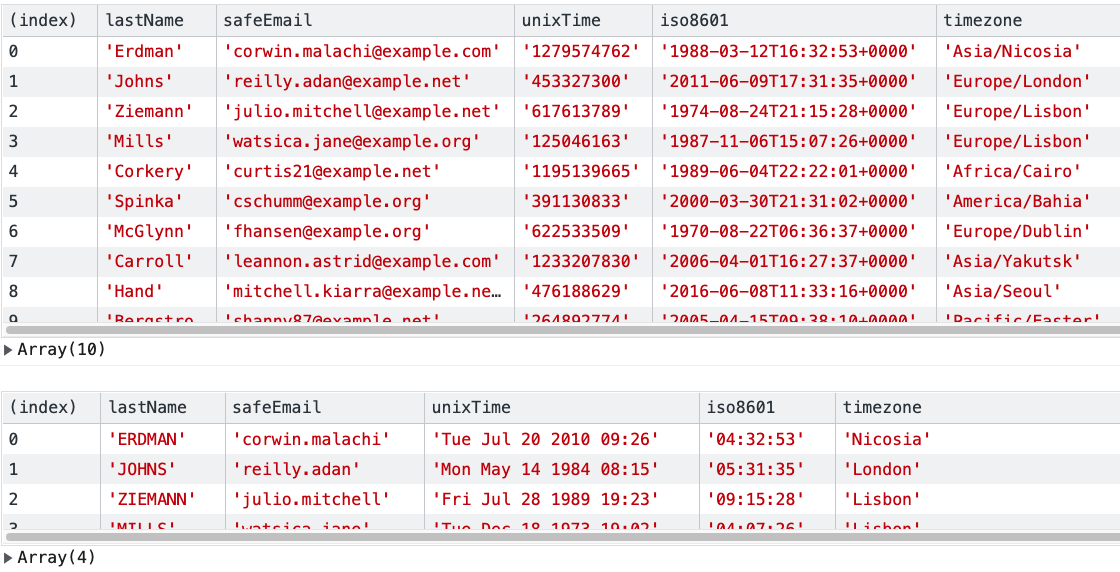
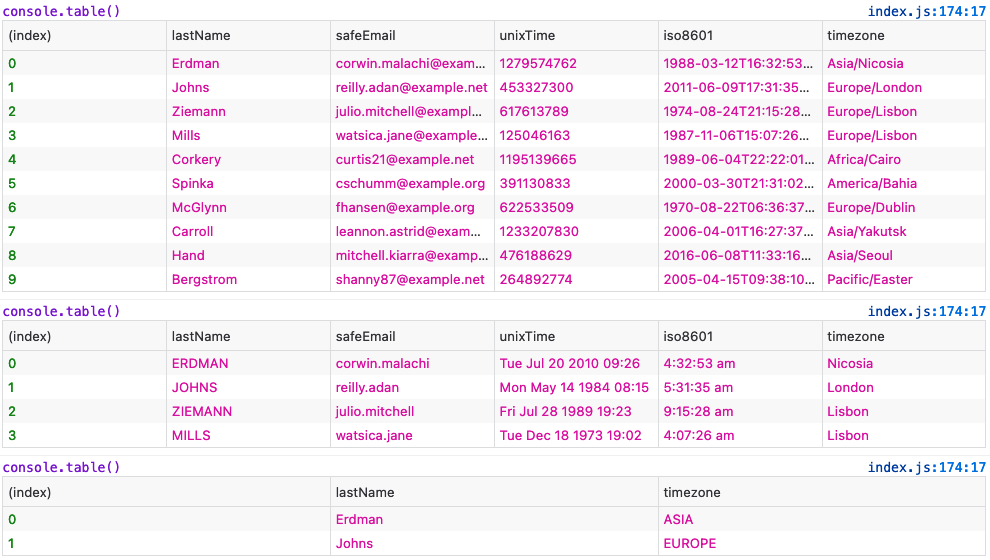
Updated examples and their location

Changed region(s): [[0.0, 0.0, 1.0, 1.0], [0.8788, 0.8196, 1.0, 0.85]]

diff --git a/examples/example.data.js b/examples/example.data.js
@@ -1,0 +1,72 @@
+export default [
+  {
+    lastName: 'Erdman',
+    safeEmail: 'corwin.malachi@example.com',
+    unixTime: '1279574762',
+    iso8601: '1988-03-12T16:32:53+0000',
+    timezone: 'Asia/Nicosia'
+  },
+  {
+    lastName: 'Johns',
+    safeEmail: 'reilly.adan@example.net',
+    unixTime: '453327300',
+    iso8601: '2011-06-09T17:31:35+0000',
+    timezone: 'Europe/London'
+  },
+  {
+    lastName: 'Ziemann',
+    safeEmail: 'julio.mitchell@example.net',
+    unixTime: '617613789',
+    iso8601: '1974-08-24T21:15:28+0000',
+    timezone: 'Europe/Lisbon'
+  },
+  {
+    lastName: 'Mills',
+    safeEmail: 'watsica.jane@example.org',
+    unixTime: '125046163',
+    iso8601: '1987-11-06T15:07:26+0000',
+    timezone: 'Europe/Lisbon'
+  },
+  {
+    lastName: 'Corkery',
+    safeEmail: 'curtis21@example.net',
+    unixTime: '1195139665',
+    iso8601: '1989-06-04T22:22:01+0000',
+    timezone: 'Africa/Cairo'
+  },
+  {
+    lastName: 'Spinka',
+    safeEmail: 'cschumm@example.org',
+    unixTime: '391130833',
+    iso8601: '2000-03-30T21:31:02+0000',
+    timezone: 'America/Bahia'
+  },
+  {
+    lastName: 'McGlynn',
+    safeEmail: 'fhansen@example.org',
+    unixTime: '622533509',
+    iso8601: '1970-08-22T06:36:37+0000',
+    timezone: 'Europe/Dublin'
+  },
+  {
+    lastName: 'Carroll',
+    safeEmail: 'leannon.astrid@example.com',
+    unixTime: '1233207830',
+    iso8601: '2006-04-01T16:27:37+0000',
+    timezone: 'Asia/Yakutsk'
+  },
+  {
+    lastName: 'Hand',
+    safeEmail: 'mitchell.kiarra@example.net',
+    unixTime: '476188629',
+    iso8601: '2016-06-08T11:33:16+0000',
+    timezone: 'Asia/Seoul'
+  },
+  {
+    lastName: 'Bergstrom',
+    safeEmail: 'shanny87@example.net',
+    unixTime: '264892774',
+    iso8601: '2005-04-15T09:38:10+0000',
+    timezone: 'Pacific/Easter'
+  }
+]

diff --git a/examples/example.js b/examples/example.js
@@ -1,0 +1,50 @@
+'use-strict'
+
+import Logger, { Styles, Processors } from '@hveluwenkamp/logjs'
+import ExampleData from './example.data.js'
+// import ExampleData from './node_modules/@hveluwenkamp/logjs/example.data.js'
+
+const example1 = Logger()
+const example2 = Logger('Function Label', { styles: Styles, processors: Processors })
+
+example1.clear().whoami() // default name is 'logjs'
+
+// simple test with no label
+example2.p('Simple test message using defaults')
+example2.type('log').p('Simple test message using defaults with console method "log"')
+example2.type('warn').p('Simple test message using defaults with console method "warn"')
+example2.type('error').p('Simple test message using defaults with console method "error"')
+
+// test all styles for all methods types
+const styles = Object.keys(Styles)
+const methods = ['log', 'warn', 'error'] // useful console methods
+styles.forEach(style => {
+  methods.forEach(type => {
+    example2.p(`Some text with style '${style}' and console method '${type}'`, { style, type })
+  })
+})
+
+example2.set(ExampleData).out() // will be using dir method by default
+example2.set(ExampleData).out('table')
+
+example2.set(ExampleData)
+  .limit(4)
+  .process({
+    lastName: 'upper',
+    unixTime: 'ux,datetime',
+    safeEmail: 'left,@',
+    timezone: 'right,/',
+    iso8601: 'date,toLocaleTimeString'
+  })
+  .out('table')
+
+example2.set(ExampleData)
+  .limit(2)
+  .include(['lastName', 'timezone'])
+  .process({
+    timezone: 'left,/'
+  })
+  .process({
+    timezone: 'upper'
+  })
+  .out('table')

diff --git a/README.md b/README.md
@@ -9,14 +9,15 @@ Enhanced logger for javascript. Able to colourise console outputs. Data arrays c
 ````javascript
 import Logger from '@hveluwenkamp/logjs'
 
-const test1 = Logger()
+const example1 = Logger()
 
-test1.p('Simple test message using defaults')
-test1.type('warn').p('Simple test message using defaults with type "info"')
-test1.type('error').p('Simple test message using defaults with type "error"')
+example1.p('Simple test message using defaults')
+example1.type('log').p('Simple test message using defaults with console method "log"')
+example1.type('warn').p('Simple test message using defaults with console method "warn"')
+example1.type('error').p('Simple test message using defaults with console method "error"')
 ````
 
-<img src="media/example.image.1.png" width="500"/>
+<img src="media/example.image.a.png" width="550"/>
 
 ### Advanced usage
 #### Styled console logs
@@ -24,17 +25,18 @@ Stepping through all the styles in Style object, with the console methods of log
 ````javascript
 import Logger, { Styles, Processors } from '@hveluwenkamp/logjs'
 
-const test2 = Logger('Function Label', { styles: Styles, processors: Processors })
+const example2 = Logger('Function Label', { styles: Styles, processors: Processors })
 
 const styles = Object.keys(Styles)
 const types = ['log', 'warn', 'error'] // useful console methods
 styles.forEach(style => { // iterate over all styles in Style Object
-    types.forEach(type => {
-        test2.p(`Some text with style '${style}' and type '${type}'`, { style, type })
+    types.forEach(method => {
+        example2.p(`Some text with style '${style}' and console method '${type}'`, { style, type })
     })
 })
 ````
-<img src="media/example.image.2.png" width="500"/>
+<img src="media/example.image.b.png" width="630"/>
+
 
 #### Array of data objects
 Array data can be output using the console methods of log, dir, and table. 
@@ -46,11 +48,11 @@ The processing functions included are upper and lower case (**'upper'** and **'l
 import Logger, { Styles, Processors } from '@hveluwenkamp/logjs'
 import ExampleData from './example.data.js'
 
-const test2 = Logger('Function Label', { styles: Styles, processors: Processors })
+const example2 = Logger('Function Label', { styles: Styles, processors: Processors })
 
-test2.set(ExampleData).out('table')
+example2.set(ExampleData).out('table')
 
-test2.set(ExampleData)
+example2.set(ExampleData)
     .limit(4)
     .process({
         lastName: 'upper',
@@ -60,6 +62,20 @@ test2.set(ExampleData)
         iso8601: 'date,toLocaleTimeString'
     })
     .out('table')
+
+example2.set(ExampleData)
+  .limit(2)
+  .include(['lastName', 'timezone'])
+  .process({
+    timezone: 'left,/'
+  })
+  .process({
+    timezone: 'upper'
+  })
+  .out('table')
 ````
 
-<img src="media/example.image.3.png"/>
+<img src="media/example.image.c.png"/>
+
+## Other examples
+Refer to included example file.
